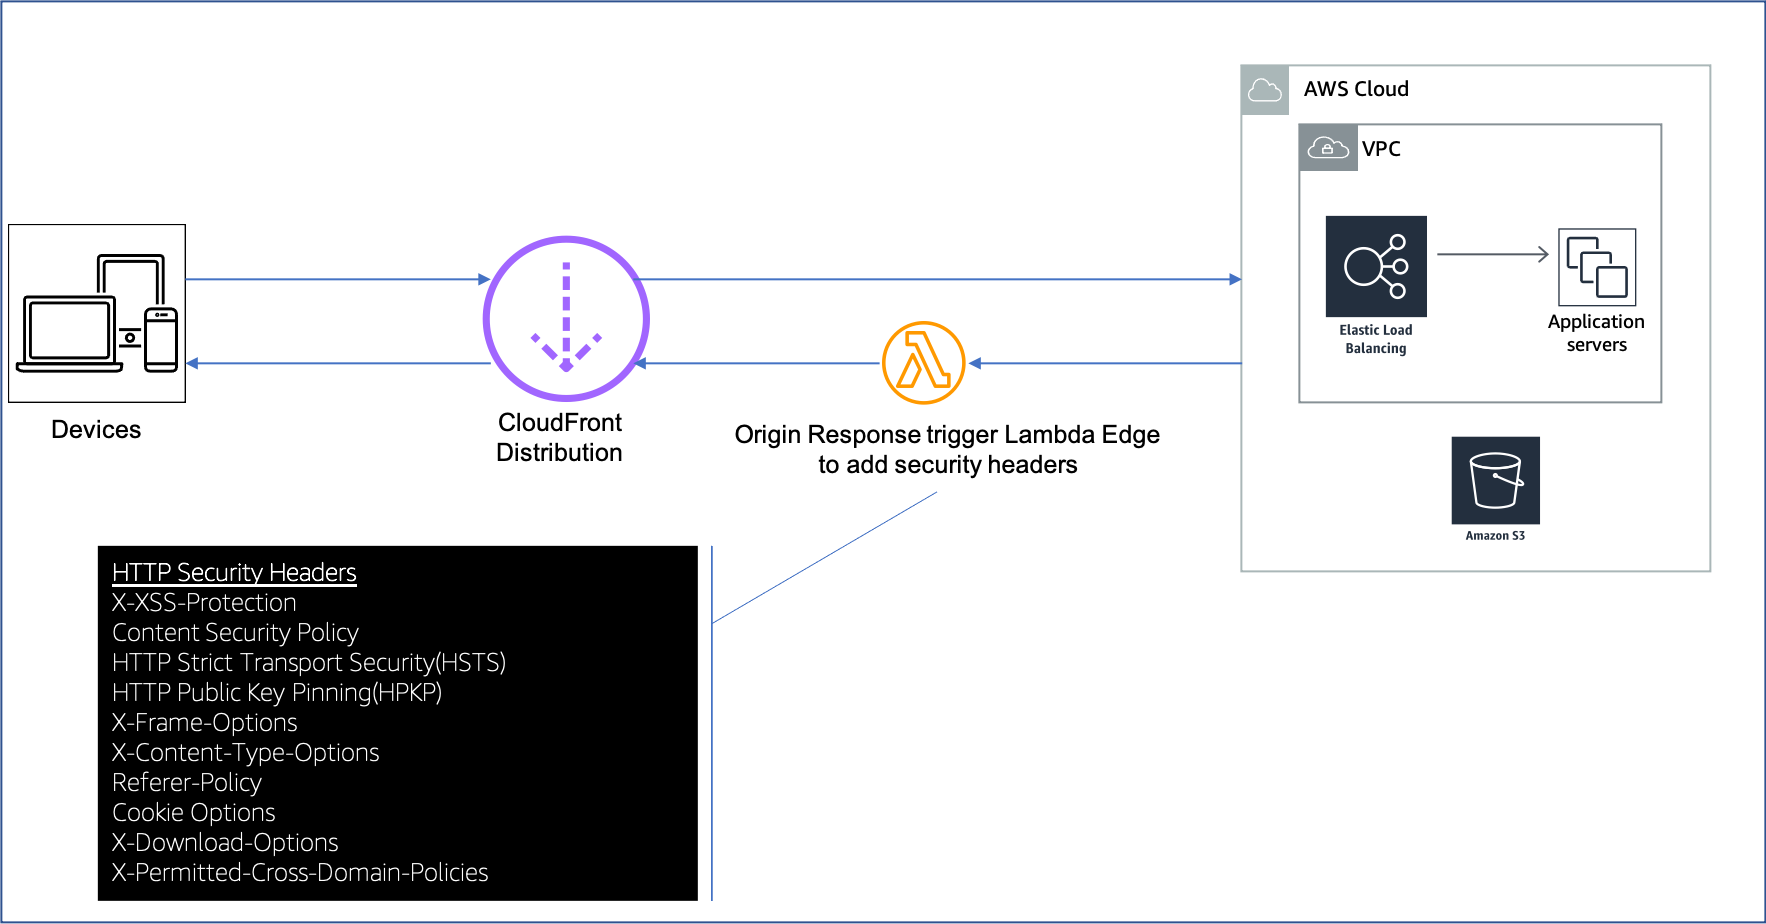
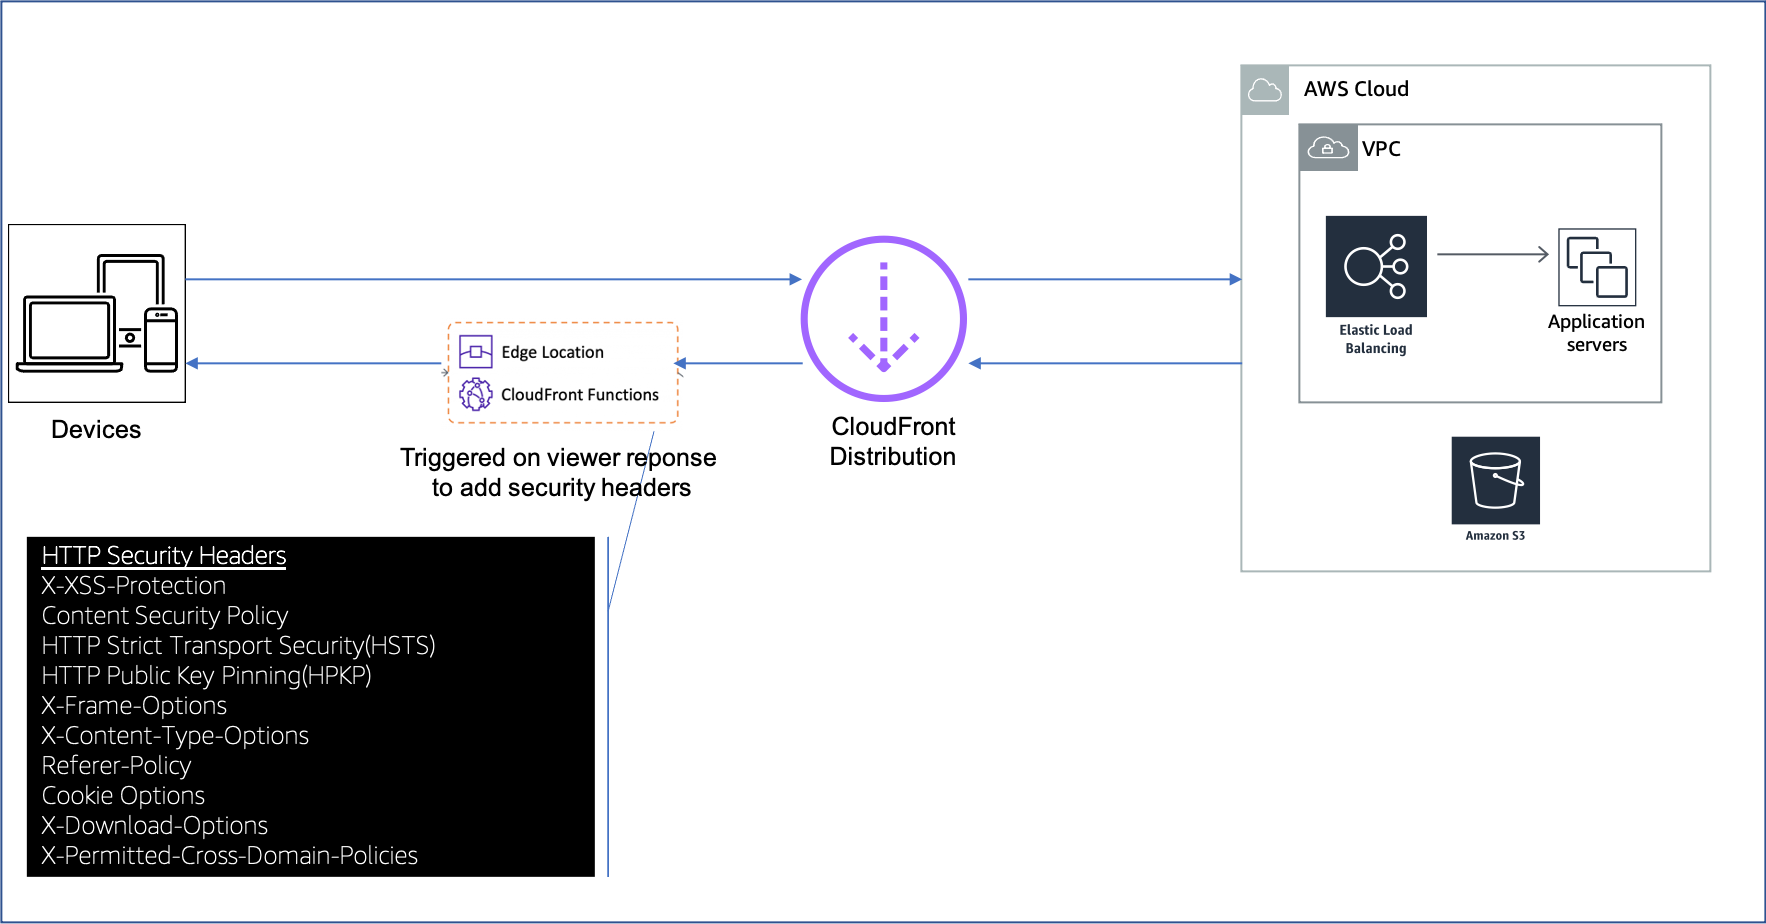
chore: update readme & diagram for add-security-headers-cff

Changed region(s): [[0.0, 0.5758, 0.4049, 1.0], [0.218, 0.2424, 0.4049, 0.5455], [0.4049, 0.2424, 0.654, 0.5152]]

diff --git a/function/js/add-security-headers-cloudfront-function/README.md b/function/js/add-security-headers-cloudfront-function/README.md
@@ -1,4 +1,4 @@
-# Add Security Headers
+# Add Security Headers for CloudFront Function
 
 The client-side security features are usually enabled and configured by HTTP response headers sent by a web server. However, a web server may not include all of the desired security headers in responses sent to your clients. The Lambda@Edge will add several response headers to enable web browsers security features.
 
